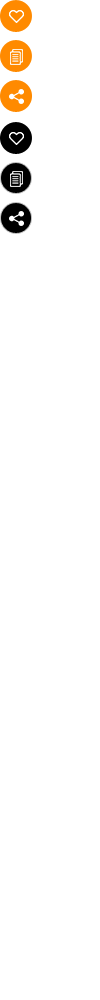
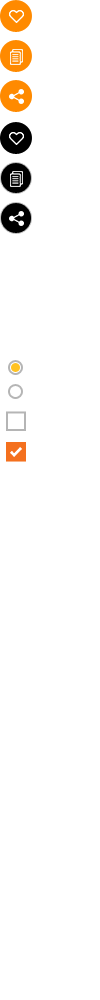
IND-64: Fix feedbacks in cart + checkout template

Changed region(s): [[0.06, 0.341, 0.27, 0.465]]

diff --git a/skin/frontend/indexliving/default/css/styles.css b/skin/frontend/indexliving/default/css/styles.css
@@ -549,7 +549,37 @@ select::-ms-expand{
     background-position: 2px center;
     background-repeat: no-repeat;
 }
-
+.checkbox, .radio {
+	display: inline-block;
+	float:none;
+}
+.checkbox{
+	height: 20px;
+	width: 20px;
+	margin-top:0;
+}
+.radio  {
+	height: 15px;
+	width: 15px;
+	margin-top:0;
+}
+.checkbox{background-image:url(../images/icons2.png); background-repeat:no-repeat; background-position:-6px -411px; background-color:transparent;}
+.radio{background-image:url(../images/icons2.png); background-repeat:no-repeat; background-position:-8px -384px;  background-color:transparent;}
+.rating_wrap_start .radio{background:0 none;}
+.checkbox-checked{background-position:-6px -441px;}
+.radio-checked{background-position:-8px -360px;}
+.rc-hidden {
+    left: -999em;
+    position: absolute;
+}
+.checkbox + label, .radio + label {
+	font-size: 13px;
+	font-weight: normal;
+	line-height: 20px;
+	max-width: 85%;
+	vertical-align: top;
+	width: auto;
+}
 a {
   color: #000;
   text-decoration: none;
@@ -2749,7 +2779,7 @@ input:-moz-placeholder {
 .radio + label {
   width: auto;
   max-width: 85%;
-  padding: 0 0 0 8px;
+  /* padding: 0 0 0 8px; */
   font-size: 14px;
   font-weight: normal;
   vertical-align: top;
@@ -6087,13 +6117,18 @@ body.catalogsearch-result-index .page-title h1 {
  * Checkout - Layout
  * ============================================ */
 .checkout-list-step{width:100%; overflow:hidden; margin:30px 0; background:#efefef;}
-.checkout-list-step ul{width:60%; margin:0 auto;}
-.checkout-list-step ul li{display:inline-block;float:left; width:33.33%; text-align:center; padding:30px 0;}
-.checkout-list-step ul li.active{border-bottom:5px solid #ffc222;color:#000000;}
+.checkout-list-step ul{width:70%; margin:0 auto;}
+.checkout-list-step ul li{display:inline-block;float:left; width:33.33%; text-align:center;/*  padding:30px 0; */}
+.checkout-list-step ul li > div{display:block; height:100%; padding:30px 0; margin:0 10%;}
+.checkout-list-step ul li.active{/* border-bottom:5px solid #ffc222; */color:#000000;}
+.checkout-list-step ul li.active > div{border-bottom:5px solid #ffc222;}
 .checkout-list-step ul li .step-number{display:inline-block; height:30px; width:30px; line-height:30px; background:#c1c1c1; border-radius:15px; color:#FFFFFF;}
 .checkout-list-step ul li.active .step-number{background:#ffc222;}
-.checkout-list-step ul li h6{font-family: 'DBYordXMed'; font-size:18px; color:#767676}
+.checkout-list-step ul li h6{font-family: 'DBYordXMed'; font-size:18px; color:#767676; font-weight: normal; text-transform: none;}
 .checkout-list-step ul li.active h6{color:#000}
+.checkout-list-step ul li.active.complete > div{border:0 none;}
+.checkout-list-step ul li.active.complete .step-number{background:#d7d7d7}
+.checkout-list-step ul li.active.complete h6{color:#d7d7d7}
 .cart-table {}
 .cart .button {
   white-space: normal;
@@ -6344,6 +6379,9 @@ body.catalogsearch-result-index .page-title h1 {
   font-weight: 600;
   margin-bottom: 0;
 }
+.cart-table h2.product-name {
+  margin-bottom: 5px;
+}
 .cart-table thead th,
 .cart-table tbody td {
   background-color: transparent;
@@ -6354,6 +6392,8 @@ body.catalogsearch-result-index .page-title h1 {
 	background:#000000;
 	color:#FFFFFF;
 	text-align:center;
+	font-family: 'DBYordXMed';
+	font-size:24px;
 }
 .cart-table .product-cart-info,
 .cart-table .product-cart-actions {
@@ -6406,6 +6446,12 @@ body.catalogsearch-result-index .page-title h1 {
 .cart-table .product-cart-image a.cart-edit {
   display: none;
 }
+.cart-table .product-cart-image .product-image {
+  float: left;
+}
+.cart-table .product-cart-image .product-cart-info {
+  margin-left: 70px;
+}
 .cart-table .product-cart-sku {
   /* font-family: Georgia, Times, "Times New Roman", serif;
   font-style: italic;
@@ -6414,6 +6460,17 @@ body.catalogsearch-result-index .page-title h1 {
 }
 .cart-table .product-cart-sku .label {
 /*   font-weight: 600; */
+}
+.cart-table .product-cart-image .product-cart-info .item-options{
+  float:left;
+	margin:0;
+	padding:0;
+}
+.cart-table .product-cart-image .product-cart-info .item-options dt{
+  font-weight:normal;
+}
+.cart-table .product-cart-image .product-cart-info .item-options dd{
+  margin:0;
 }
 .cart-table .btn-empty {
   float: left;
@@ -6486,12 +6543,21 @@ body.catalogsearch-result-index .page-title h1 {
 	font-size:16px; 
 	font-family: 'FuturaT_Bold';
 }
+.cart-table .cart-price .special-price .price{
+	color:#ff0000; 
+}
+.cart-table .cart-price .old-price .price{
+	color: #a0a0a0;
+	font-size: 10px;
+	font-family: 'FuturaLight';
+}
 .cart-table .product-cart-actions .button, .cart-table .product-cart-actions .button:hover {
 	float: left;
 	height: 40px;
 	padding: 5px;
 	background:#000000;
 	color:#FFFFFF;
+	border-radius:0;
 }
 .cart-table .product-cart-actions .button span{
 	background:#000000;

diff --git a/js/amasty/amscheckout/checkout.js b/js/amasty/amscheckout/checkout.js
@@ -165,6 +165,14 @@ function ajaxUpdate(url, after, form){
             }
 
 //            hideLoading(); 
+					var myNav = navigator.userAgent.toLowerCase();
+					var isIE = (myNav.indexOf('msie') != -1) ? parseInt(myNav.split('msie')[1]) : false;
+					if(isIE == 7 || isIE == 8){
+						return;
+					}else{
+						jQuery('#co-shipping-method-form').customRadioCheckbox();
+						jQuery('#co-payment-form-update').customRadioCheckbox();
+					}
         },
         on403: function(){
             document.location.reload();

diff --git a/skin/frontend/indexliving/default/css/custom-radio-checkbox.css b/skin/frontend/indexliving/default/css/custom-radio-checkbox.css
@@ -5,7 +5,7 @@
 	
 }
 
- .checkbox {
+/*  .checkbox {
 	background: url(../images/icon-check.png) no-repeat;
 	width: 15px;
   height: 16px;
@@ -17,7 +17,7 @@
 }
 .checkbox.checkbox-checked {
   background: url(../images/icon-checked.png) no-repeat;
-}
+} */
 .change-password  input[type="checkbox"],
 .useasdefault input[type="checkbox"] ,
 .checkout-style2 input[type="checkbox"]  {width:20px; height:20px; }

diff --git a/skin/frontend/indexliving/default/css/amasty/amscheckout/main.css b/skin/frontend/indexliving/default/css/amasty/amscheckout/main.css
@@ -195,8 +195,9 @@
     color: white;
     text-align: center;
     width: 32px;
-		font-size:20px;
+		font-size:14px;
 		line-height:32px;
+		font-family:'FuturaBT-Book';
     
 /*    background-color: #fff;
     background-image: -webkit-linear-gradient(bottom, #5cc98b, #32955d);
